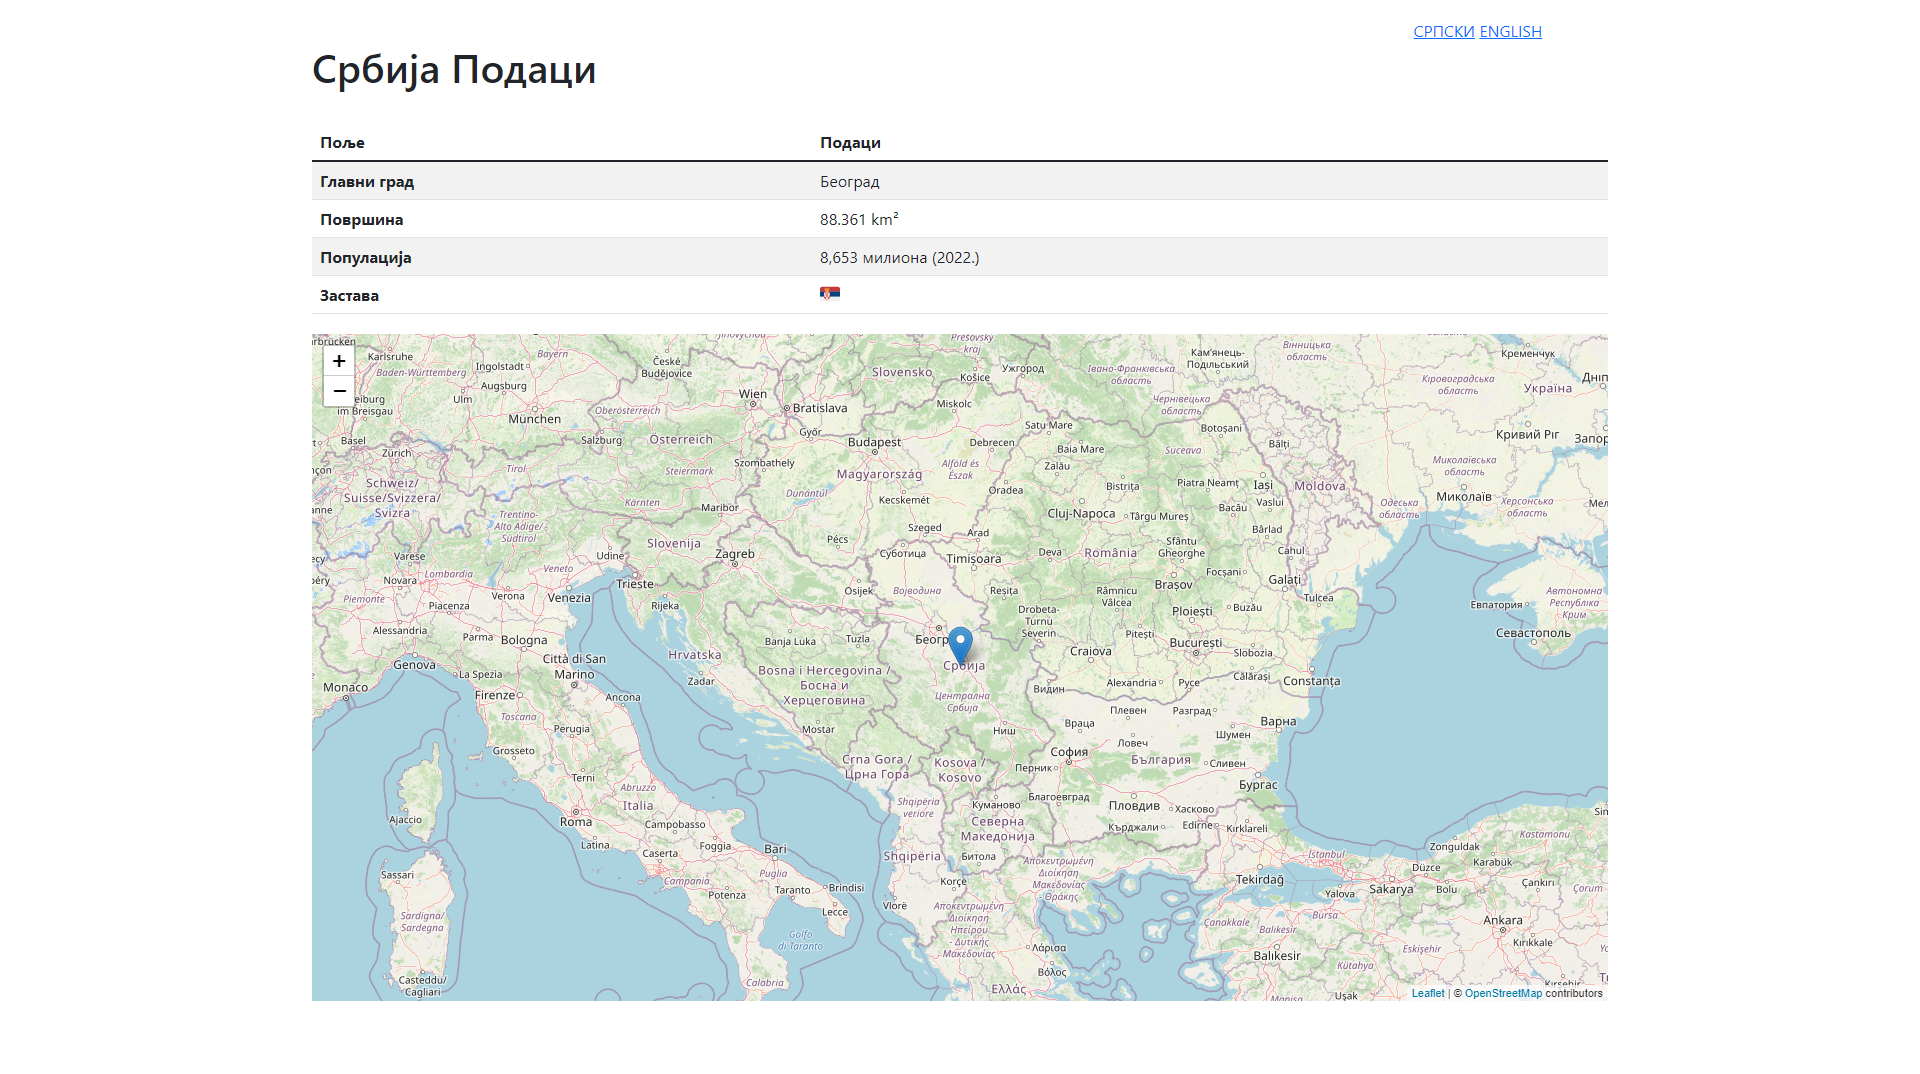
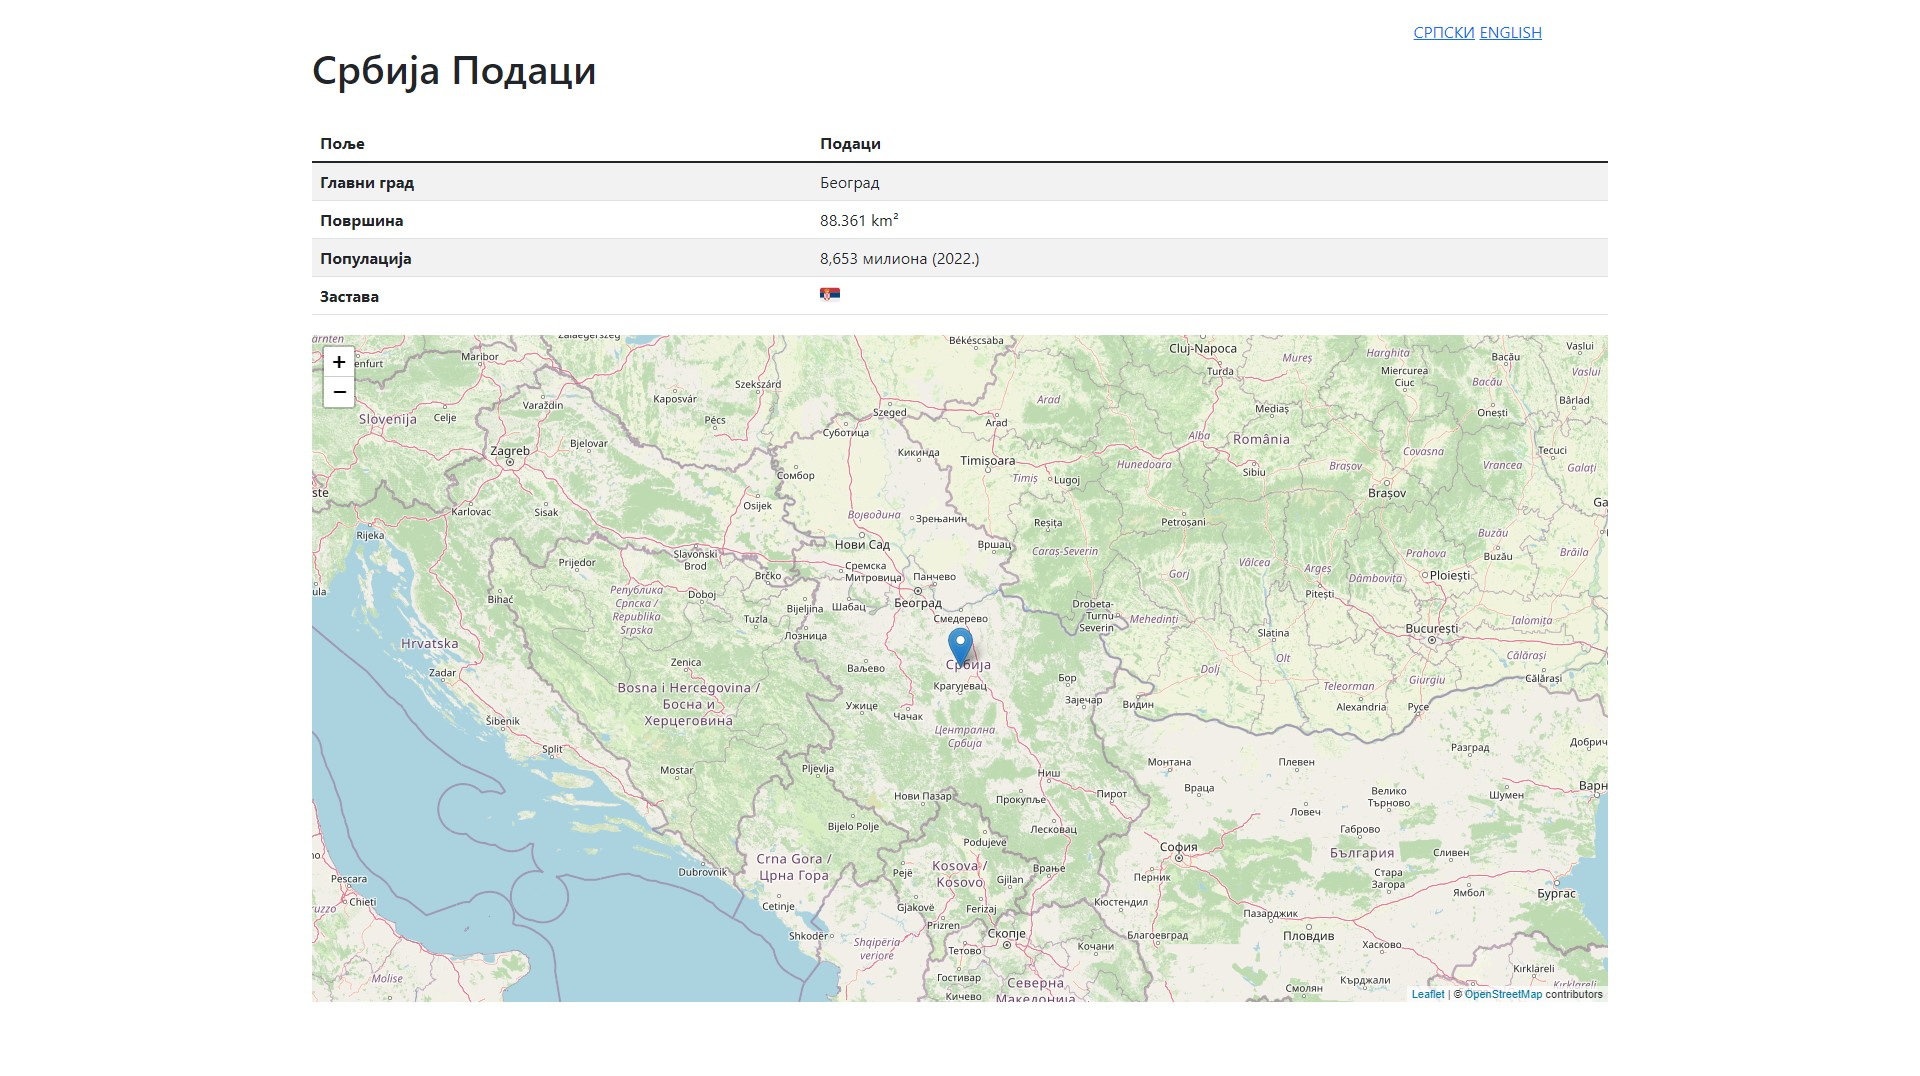
Update Demo IMG

diff --git a/mapa.js b/mapa.js
@@ -5,7 +5,8 @@ const coords = {
     lon: 20.9224
 }
 
-const mymap = L.map('SrbijaMapa').setView([coords.lat, coords.lon], 6);
+const zoom = 7;
+const mymap = L.map('SrbijaMapa').setView([coords.lat, coords.lon], zoom);
 
 const attribution =
     '&copy; <a href="https://openstreetmap.org/copyright">OpenStreetMap</a> contributors';
